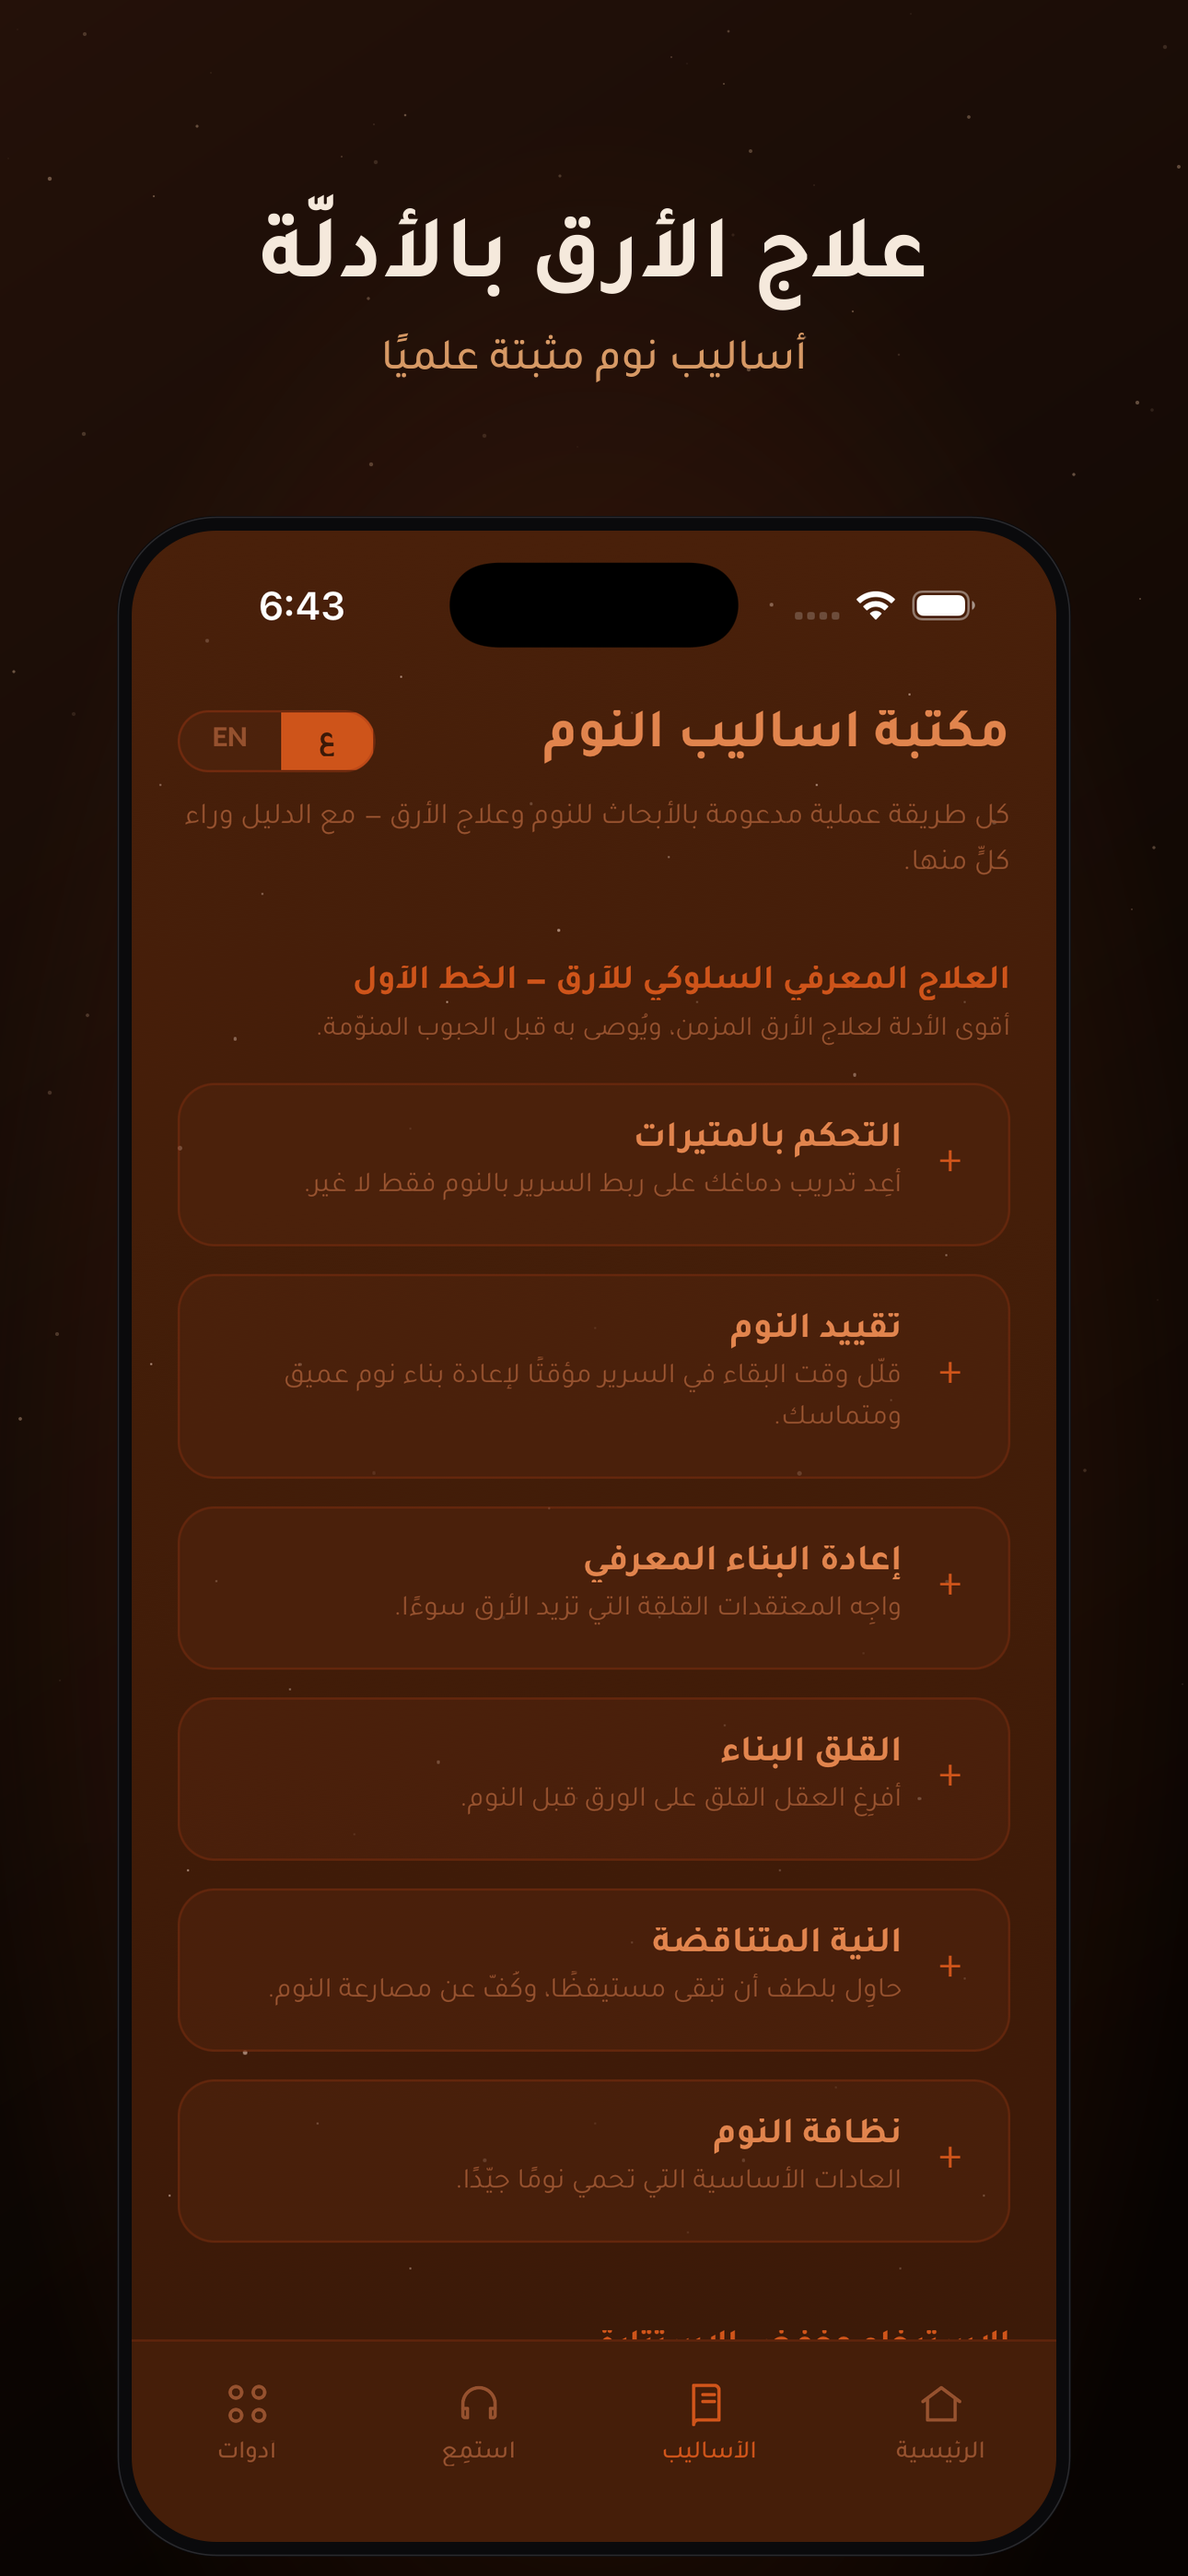
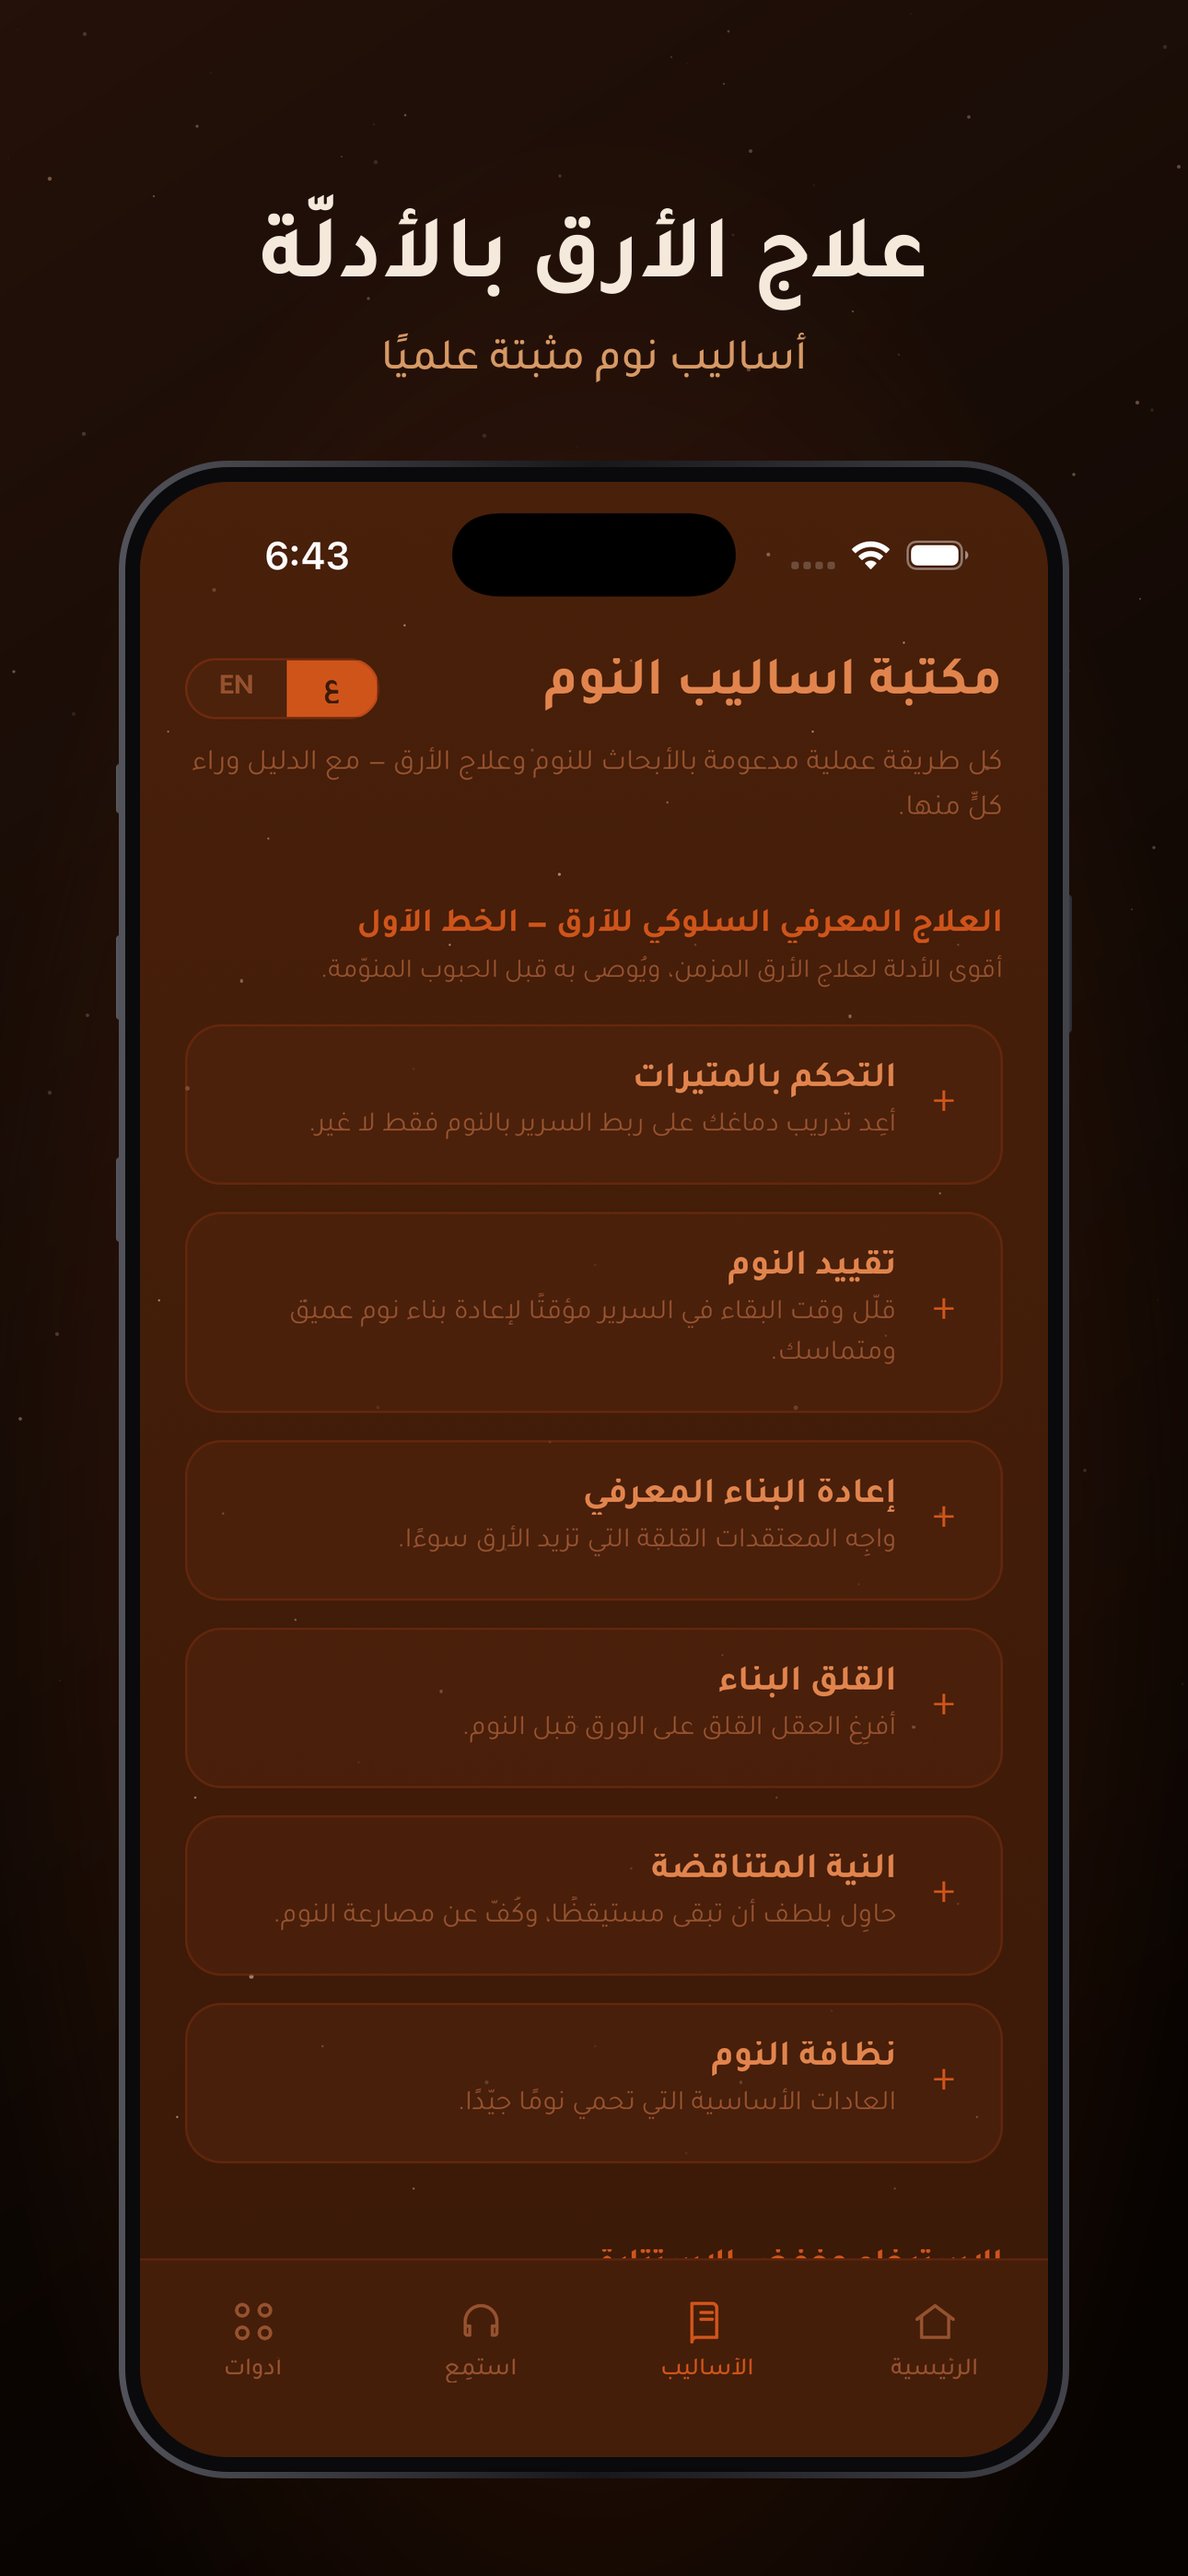
polish(ios): realistic iPhone mockup for App Store screenshots
Replace the thin bezel with a titanium rim + black bezel + side buttons
(action/volume left, side button right) so the frame clearly reads as an
iPhone. Dynamic Island + iOS status bar kept from the capture.

diff --git a/store/screenshots-studio/gen-appstore.js b/store/screenshots-studio/gen-appstore.js
@@ -48,30 +48,47 @@ const roundMask = (w, h, r) => Buffer.from(
 
 async function makeSlide({ raw, headline, sub, rtl, out }) {
   const meta = await sharp(raw).metadata();
-  const devW = 1004;
+  const devW = 986;
   const devH = Math.round(devW * (meta.height / meta.width));
-  const screenR = 92; // iPhone-like corner rounding on the capture
+  const screenR = 96; // iPhone corner rounding on the capture
 
   const screen = await sharp(raw)
     .resize(devW, devH)
     .composite([{ input: roundMask(devW, devH, screenR), blend: 'dest-in' }])
     .png().toBuffer();
 
-  // clean iPhone frame: thin near-black bezel, no camera cutout (Dynamic Island is in the capture)
-  const bez = 16;
-  const fw = devW + bez * 2, fh = devH + bez * 2, fr = screenR + bez;
+  // Realistic iPhone body: titanium rim + black bezel + side buttons.
+  const RIM = 7, BLACK = 16, BTN = 8;
+  const bodyW = devW + (RIM + BLACK) * 2, bodyH = devH + (RIM + BLACK) * 2;
+  const bodyR = screenR + RIM + BLACK;
+  const fw = bodyW + BTN * 2, fh = bodyH;
+  const bx = BTN;                        // body left edge inside frame buffer
+  const sLeft = bx + RIM + BLACK, sTop = RIM + BLACK;
+  const leftX = bx - 3, rightX = bx + bodyW - BTN - 2, bw = BTN + 5;
+  const btn = (x, y, h) => `<rect x="${x}" y="${y.toFixed(0)}" width="${bw}" height="${h}" rx="4" ry="4" fill="url(#rail)"/>`;
   const frame = Buffer.from(
     `<svg xmlns="http://www.w3.org/2000/svg" width="${fw}" height="${fh}">
-       <rect width="${fw}" height="${fh}" rx="${fr}" ry="${fr}" fill="#0a0a0c"/>
-       <rect x="1.5" y="1.5" width="${fw - 3}" height="${fh - 3}" rx="${fr - 1}" ry="${fr - 1}"
-             fill="none" stroke="#2a2a2e" stroke-width="1.5"/>
+       <defs>
+         <linearGradient id="metal" x1="0" y1="0" x2="1" y2="0">
+           <stop offset="0" stop-color="#52525a"/><stop offset="0.5" stop-color="#18181c"/><stop offset="1" stop-color="#42424a"/>
+         </linearGradient>
+         <linearGradient id="rail" x1="0" y1="0" x2="1" y2="0">
+           <stop offset="0" stop-color="#5a5a62"/><stop offset="1" stop-color="#2a2a30"/>
+         </linearGradient>
+       </defs>
+       ${btn(leftX, bodyH * 0.15, 54)}
+       ${btn(leftX, bodyH * 0.235, 92)}
+       ${btn(leftX, bodyH * 0.345, 92)}
+       ${btn(rightX, bodyH * 0.215, 150)}
+       <rect x="${bx}" y="0" width="${bodyW}" height="${bodyH}" rx="${bodyR}" ry="${bodyR}" fill="url(#metal)"/>
+       <rect x="${bx + RIM}" y="${RIM}" width="${bodyW - RIM * 2}" height="${bodyH - RIM * 2}" rx="${bodyR - RIM}" ry="${bodyR - RIM}" fill="#0a0a0c"/>
      </svg>`);
 
-  const fx = Math.round((W - fw) / 2), fyTop = 560;
+  const fx = Math.round((W - fw) / 2), fyTop = 500;
   await sharp(Buffer.from(bgSvg(headline, sub, rtl)))
     .composite([
       { input: frame, left: fx, top: fyTop },
-      { input: screen, left: fx + bez, top: fyTop + bez },
+      { input: screen, left: fx + sLeft, top: fyTop + sTop },
     ])
     .png().toFile(out);
 }
